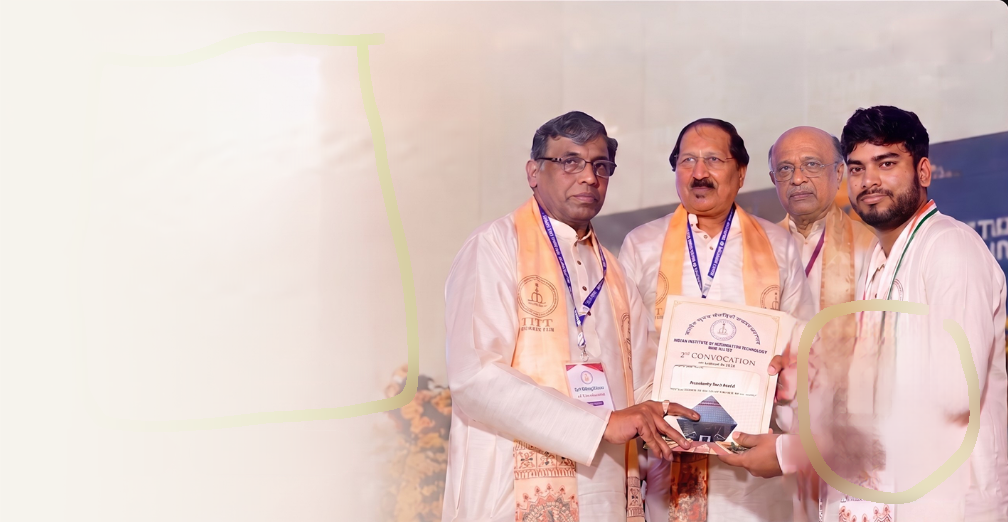
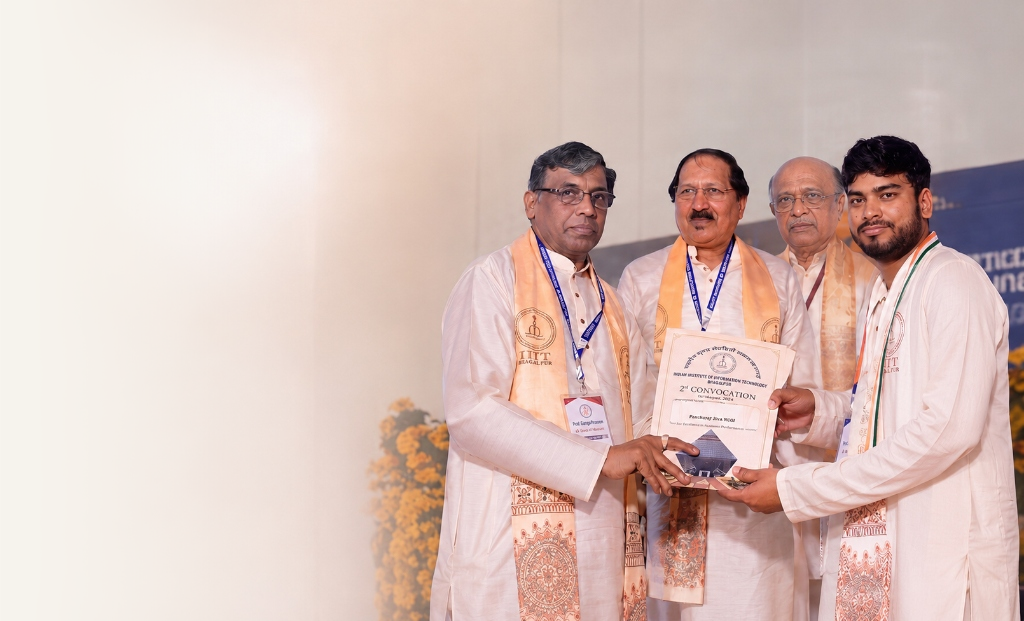
Replace hero image with high-res original and start image from top behind navbar

Changed region(s): [[0.3383, 0.1839, 1.0, 1.0], [0.6151, 0.0, 1.0, 0.1226], [0.3383, 0.092, 0.369, 0.1226]]

diff --git a/src/sections/Hero/index.jsx b/src/sections/Hero/index.jsx
@@ -39,21 +39,23 @@ function HeroPinIcon({ className = 'w-7 h-7 text-maroon-900' }) {
 }
 
 /**
- * Hero Section using the exact background image and layout matching the reference mockup
+ * Hero Section starting directly from the top of the page (behind transparent navbar)
  */
 export function Hero() {
   return (
-    <section className="relative w-full overflow-hidden bg-cream-100 min-h-[560px] lg:min-h-[620px] xl:min-h-[680px] flex items-center">
+    <section className="relative w-full overflow-hidden bg-cream-100 min-h-[640px] lg:min-h-[700px] xl:min-h-[740px] flex items-center pt-24 sm:pt-28 lg:pt-32 pb-12 lg:pb-16">
       
-      {/* Full-width Background Image Layer on Desktop */}
+      {/* Full-width Background Image Layer starting from the very top (y=0) */}
       <div
-        className="hidden lg:block absolute inset-0 bg-no-repeat bg-right-top bg-contain pointer-events-none z-0"
+        className="hidden lg:block absolute inset-0 bg-no-repeat bg-right-top pointer-events-none z-0"
         style={{
           backgroundImage: "url('/assets/convocation-hero-bg.png')",
+          backgroundSize: 'contain',
+          backgroundPosition: 'right top',
         }}
       />
 
-      <div className="max-w-[1400px] w-full mx-auto px-6 sm:px-10 lg:px-12 relative z-10 py-8 lg:py-12">
+      <div className="max-w-[1400px] w-full mx-auto px-6 sm:px-10 lg:px-12 relative z-10">
         <div className="grid grid-cols-1 lg:grid-cols-12 gap-8 items-center">
           
           {/* Left Column: Hero Content (CONVOCATION 2026, details, buttons) */}
@@ -137,8 +139,8 @@ export function Hero() {
               />
             </div>
 
-            {/* Floating Maroon Countdown Card positioned over the blurred circle area */}
-            <div className="w-full sm:w-[280px] lg:w-[290px] xl:w-[310px] lg:mr-4 xl:mr-8 lg:mt-32">
+            {/* Floating Maroon Countdown Card positioned over the photo lower-right */}
+            <div className="w-full sm:w-[280px] lg:w-[290px] xl:w-[310px] lg:mr-2 xl:mr-6 lg:mt-36">
               <CountdownCard />
             </div>
 

diff --git a/src/App.jsx b/src/App.jsx
@@ -26,6 +26,13 @@ function HomePage() {
   );
 }
 
+/**
+ * Subpage wrapper to account for the fixed transparent/glass navbar
+ */
+function PageWrapper({ children }) {
+  return <div className="pt-24 sm:pt-28">{children}</div>;
+}
+
 export function App() {
   return (
     <div className="min-h-screen flex flex-col bg-cream-100 text-charcoal-900 selection:bg-maroon-050 selection:text-maroon-900 font-body">
@@ -33,11 +40,11 @@ export function App() {
       <div className="flex-1">
         <Routes>
           <Route path="/" element={<HomePage />} />
-          <Route path="/schedule" element={<ScheduleSection />} />
-          <Route path="/registration" element={<RegistrationFormSection />} />
-          <Route path="/gallery" element={<GallerySection />} />
-          <Route path="/archive" element={<ArchiveSection />} />
-          <Route path="/information" element={<InformationSection />} />
+          <Route path="/schedule" element={<PageWrapper><ScheduleSection /></PageWrapper>} />
+          <Route path="/registration" element={<PageWrapper><RegistrationFormSection /></PageWrapper>} />
+          <Route path="/gallery" element={<PageWrapper><GallerySection /></PageWrapper>} />
+          <Route path="/archive" element={<PageWrapper><ArchiveSection /></PageWrapper>} />
+          <Route path="/information" element={<PageWrapper><InformationSection /></PageWrapper>} />
         </Routes>
       </div>
       <Footer />

diff --git a/src/components/layout/NavBar.jsx b/src/components/layout/NavBar.jsx
@@ -13,7 +13,7 @@ const NAV_LINKS = [
 ];
 
 /**
- * NavBar component perfectly aligned with the design mockup
+ * NavBar component floating transparently over the hero image top
  */
 export function NavBar() {
   const [isScrolled, setIsScrolled] = useState(false);
@@ -54,7 +54,7 @@ export function NavBar() {
 
   return (
     <header
-      className={`sticky top-0 z-40 w-full transition-all duration-nav ${
+      className={`fixed top-0 left-0 right-0 z-40 w-full transition-all duration-nav ${
         isScrolled
           ? 'bg-cream-100/90 backdrop-blur-md shadow-sm border-b border-border/60'
           : 'bg-transparent'
